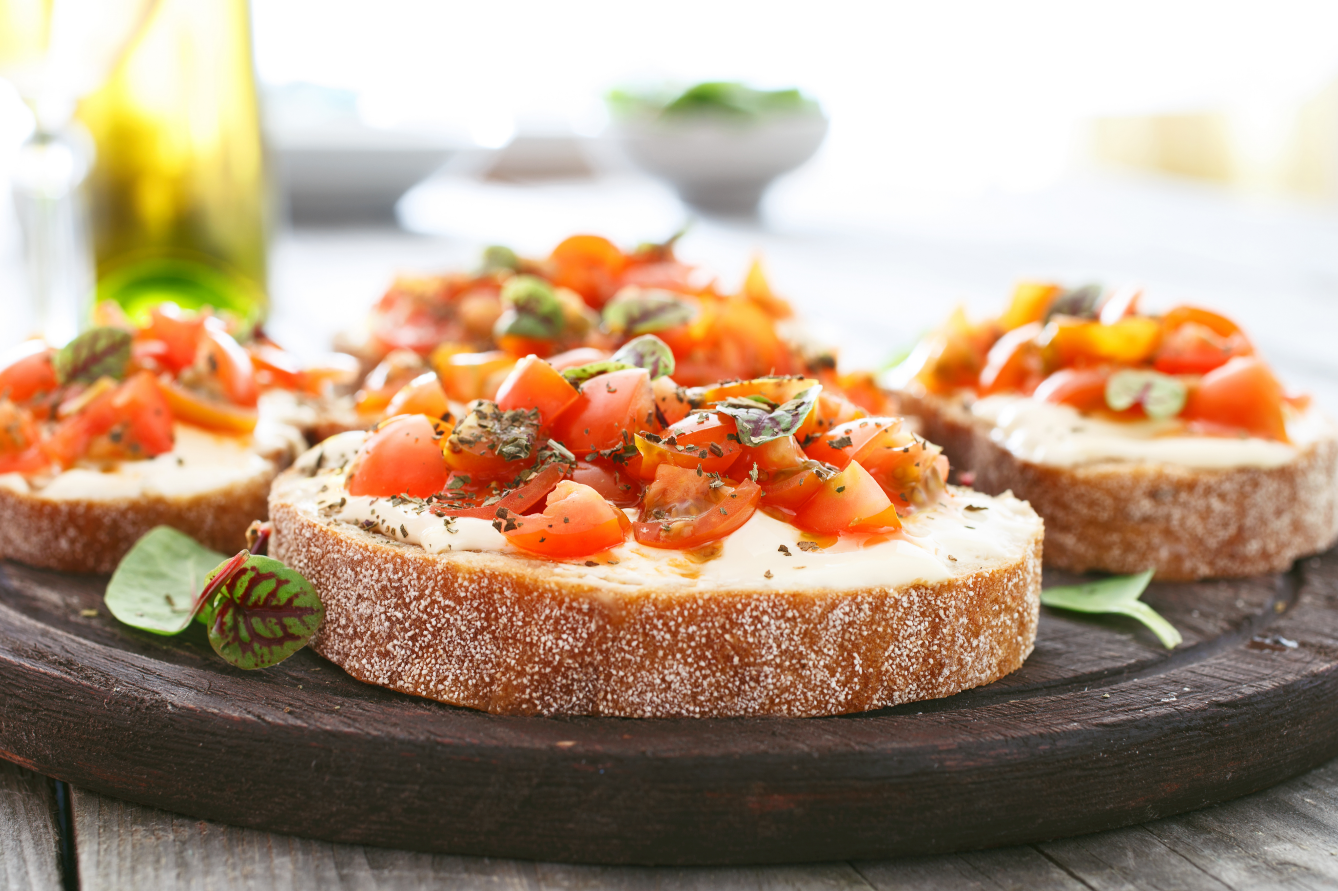
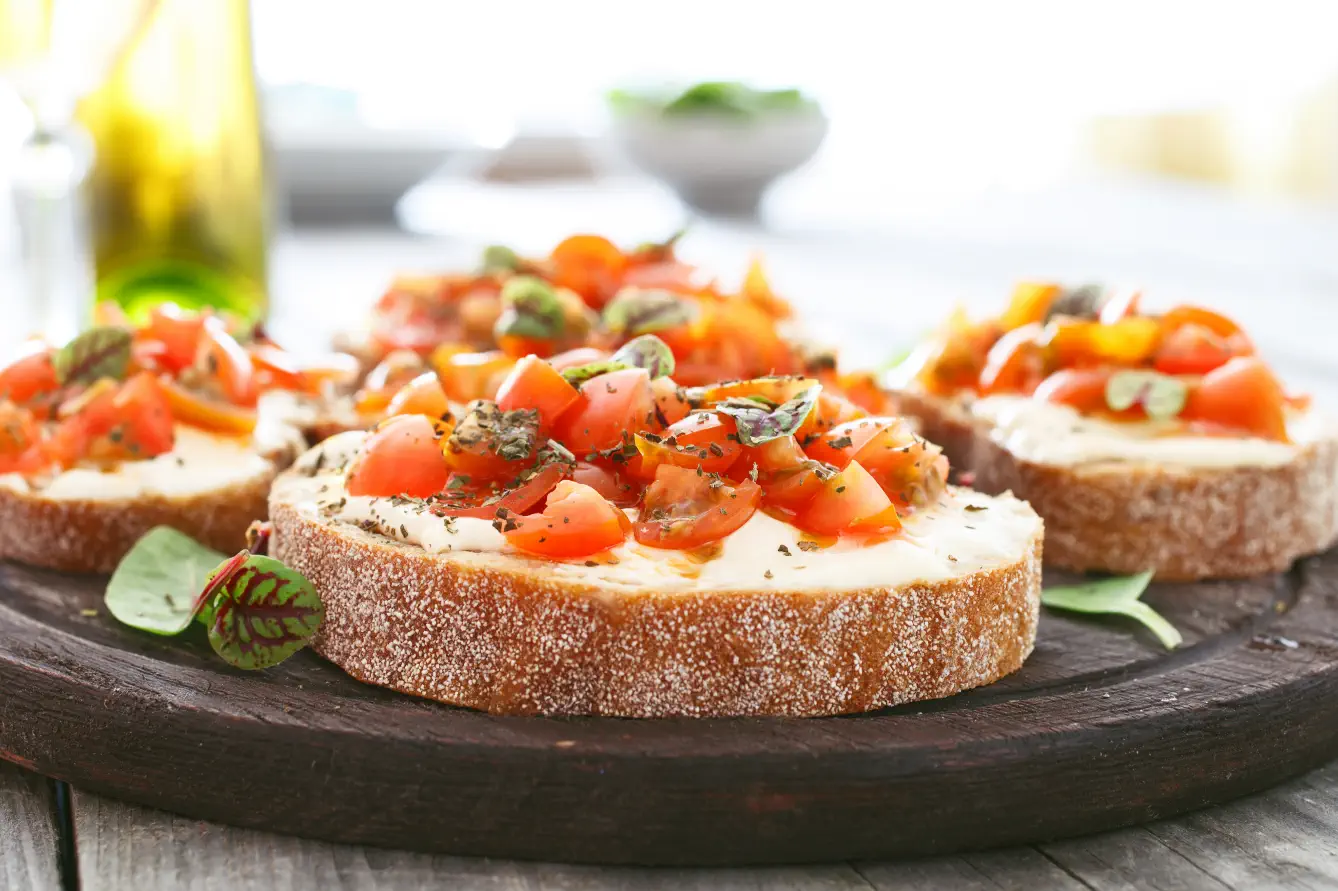
add About component, compress image sizes

diff --git a/src/components/About/About.module.css b/src/components/About/About.module.css
@@ -1,0 +1,109 @@
+.aboutContainer {
+  display: flex;
+  width: 100%;
+  justify-content: center;
+  gap: 180px;
+  align-items: center;
+
+  @media screen and (max-width: 1090px) {
+    flex-wrap: wrap;
+    gap: 20px;
+  }
+}
+
+.mainTitle {
+  all: unset;
+  font-family: "Markazi Text", serif;
+  font-size: 64px;
+  font-weight: 500;
+  color: #f4ce14;
+}
+
+.subTitle {
+  margin: initial;
+  padding: initial;
+  font-family: "Markazi Text", serif;
+  font-size: 40px;
+  font-weight: 400;
+  color: #edefee;
+}
+
+.titleContainer {
+  margin-top: 73px;
+  line-height: 0.7;
+
+  @media screen and (max-width: 900px) {
+    text-align: center;
+    margin-top: 40px;
+  }
+}
+
+.textContainer {
+  max-width: 400px;
+  margin-top: 83px;
+  margin-bottom: 120px;
+  height: auto;
+
+  @media screen and (max-width: 900px) {
+    text-align: center;
+    margin-top: 40px;
+    margin-bottom: 0px;
+  }
+}
+
+.textContainer > p {
+  color: #edefee;
+  font-family: "Karla";
+  font-size: 16px;
+  font-style: normal;
+  font-weight: 400;
+  line-height: normal;
+}
+
+.photoContainer {
+  position: relative;
+  width: 480px;
+  height: 537px;
+
+  @media screen and (max-width: 425px) {
+    display: flex;
+    flex-wrap: wrap;
+    gap: 10px;
+    justify-content: center;
+    margin-bottom: 50px;
+    height: 100%;
+  }
+}
+
+.photoContainer > img {
+  width: 100%;
+  max-width: 262px;
+}
+
+.photoContainer > img:nth-child(1) {
+  position: absolute;
+  bottom: 0;
+  left: 0;
+  z-index: 2;
+
+  @media screen and (max-width: 426px) {
+    position: static;
+    z-index: 1;
+    width: 210px;
+    height: 300px;
+  }
+}
+
+.photoContainer > img:nth-child(2) {
+  position: absolute;
+  top: 0;
+  right: 0;
+  z-index: 1;
+
+  @media screen and (max-width: 426px) {
+    position: static;
+    z-index: 1;
+    width: 210px;
+    height: 300px;
+  }
+}

diff --git a/src/components/About/About.js b/src/components/About/About.js
@@ -1,0 +1,41 @@
+import marioAdrianA from "../../assets/Mario-and-Adrian-A.webp";
+import marioAdrianB from "../../assets/Mario-and-Adrian-B.webp";
+import styles from "./About.module.css";
+
+const About = () => {
+  return (
+    <div className={styles.aboutContainer}>
+      <article>
+        <div className={styles.titleContainer}>
+          <h2 className={styles.mainTitle}>Little Lemon</h2>
+          <h3 className={styles.subTitle}>Chicago</h3>
+        </div>
+        <div className={styles.textContainer}>
+          <p>
+            Little Lemon is a cozy neighborhood bistro known for its simple yet
+            delicious food and timeless cocktails.
+          </p>
+          <p>
+            Owned by Italian brothers Mario and Adrian, it's the result of their
+            dream to own a restaurant. Mario, a chef from Italy, curates the
+            menu with care, incorporating family recipes. Adrian manages
+            marketing and played a key role in expanding the menu beyond Italian
+            dishes.
+          </p>
+          <p>
+            The locally-sourced menu features daily specials, showcasing their
+            commitment to fresh options. With Mario's culinary skills and
+            Adrian's marketing, Little Lemon is a beloved spot where good food
+            and a welcoming atmosphere come together.
+          </p>
+        </div>
+      </article>
+      <div className={styles.photoContainer}>
+        <img src={marioAdrianA} alt="Mario and Adrian" />
+        <img src={marioAdrianB} alt="Mario and Adrian" />
+      </div>
+    </div>
+  );
+};
+
+export default About;

diff --git a/src/App.js b/src/App.js
@@ -8,6 +8,7 @@ import Wrapper from "./components/Wrapper/Wrapper";
 import Hero from "./components/Hero/Hero";
 import Specials from "./components/Specials/Specials";
 import Testimonials from "./components/Testimonials/Testimonial";
+import About from "./components/About/About";
 
 function App() {
   return (
@@ -32,6 +33,11 @@ function App() {
         <Section width={"100%"} height={"auto"} backgroundColor={"#EDEFEE"}>
           <Wrapper>
             <Testimonials />
+          </Wrapper>
+        </Section>
+        <Section width={"100%"} height={"auto"} backgroundColor={"#495E57"}>
+          <Wrapper>
+            <About />
           </Wrapper>
         </Section>
       </Main>
